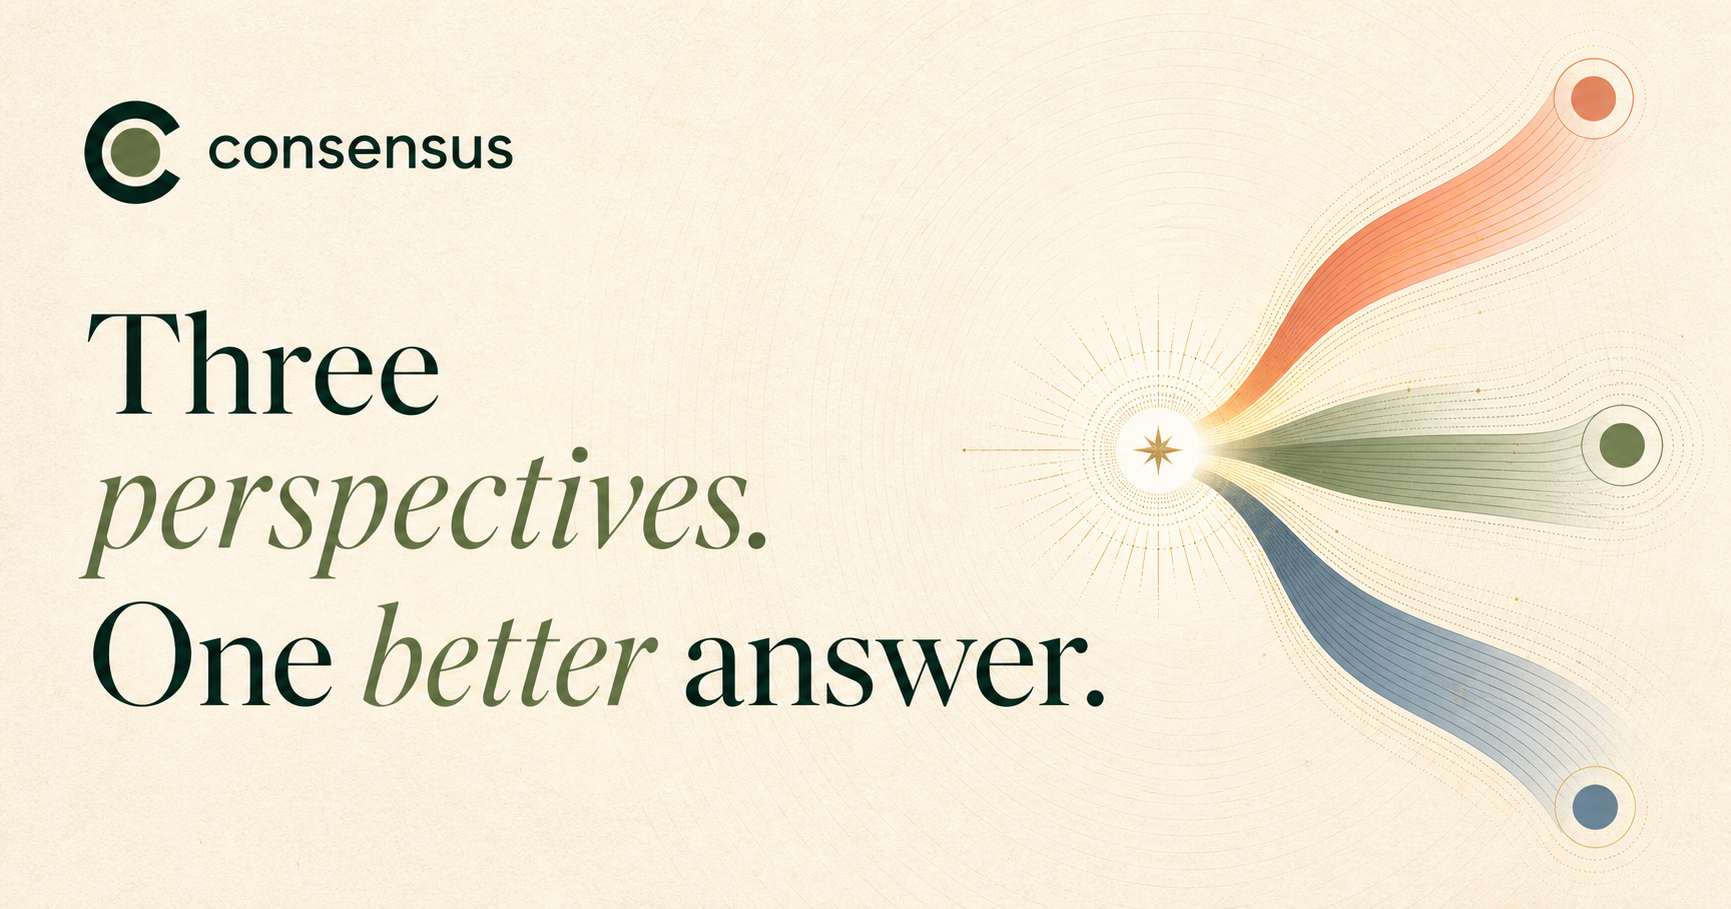
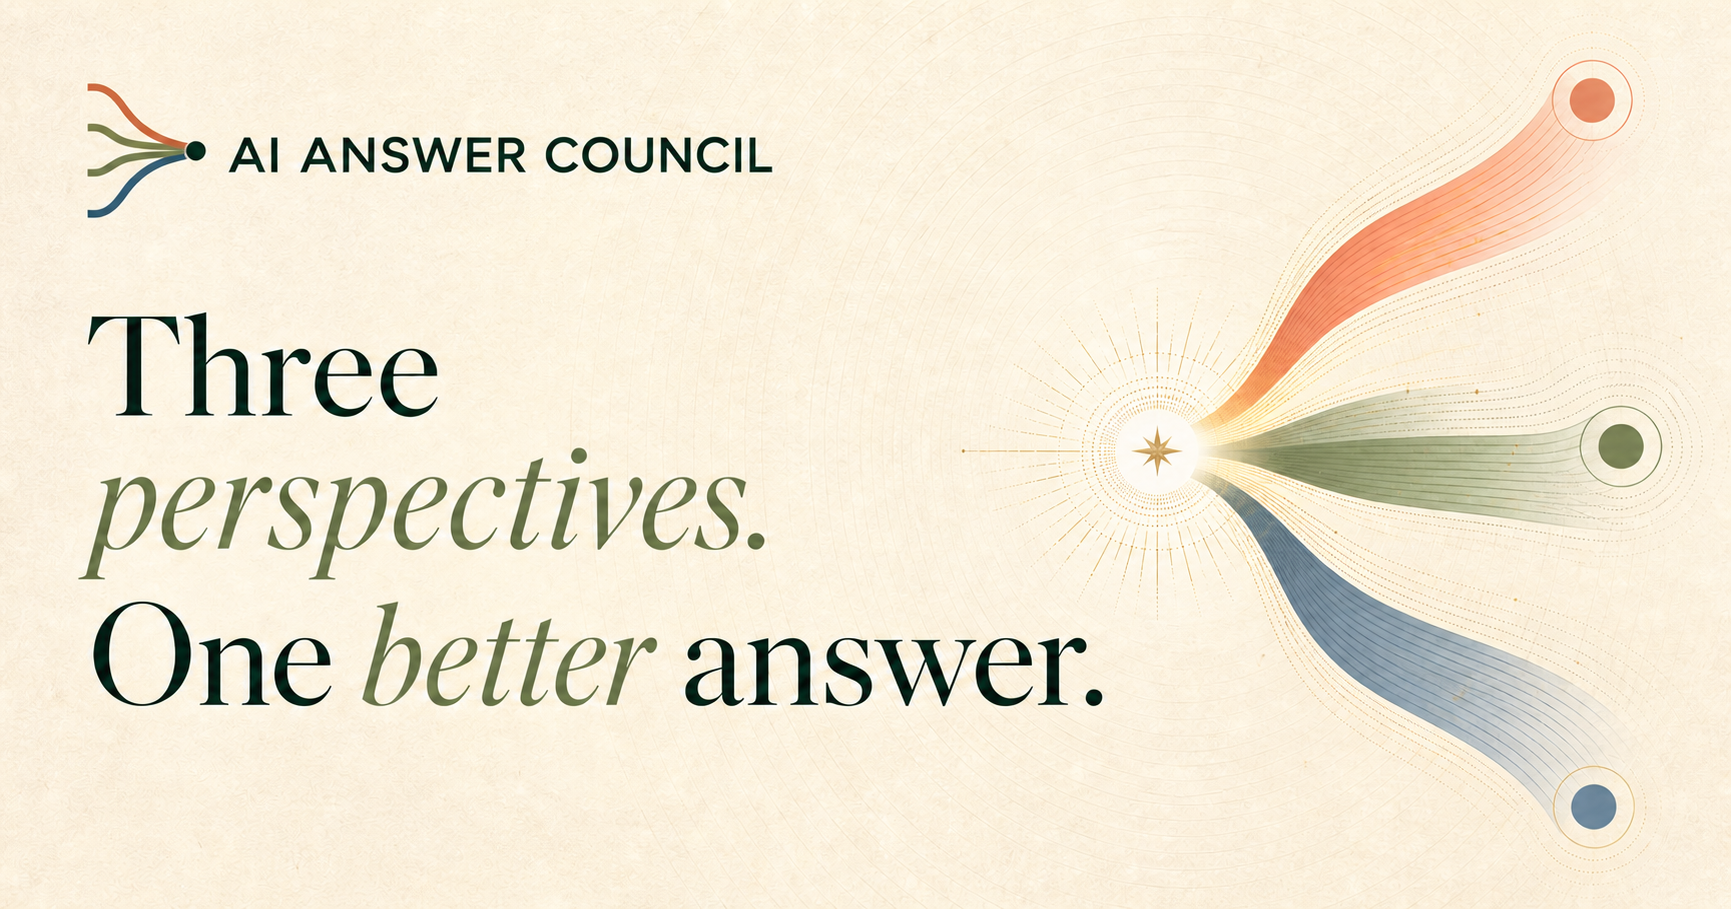
Rename product to AI Answer Council

diff --git a/app/page.tsx b/app/page.tsx
@@ -172,9 +172,9 @@ export default function Home() {
   return (
     <main>
       <header className="topbar">
-        <a className="brand" href="#top" aria-label="Consensus home">
+        <a className="brand" href="#top" aria-label="AI Answer Council home">
           <span className="brand-mark" aria-hidden="true"><i /><i /><i /></span>
-          <span>consensus</span>
+          <span>AI Answer Council</span>
         </a>
       </header>
 
@@ -182,7 +182,7 @@ export default function Home() {
         <div className="eyebrow"><span>✦</span> MULTI-MODEL INTELLIGENCE</div>
         <h1>Three perspectives.<br /><em>One better answer.</em></h1>
         <p className="hero-copy">
-          Ask once. Consensus consults leading AI models in parallel, then uses an independent evaluator to combine their strongest ideas.
+          Ask once. AI Answer Council consults leading models in parallel, then uses an independent evaluator to combine their strongest ideas.
         </p>
 
         <div className="prompt-shell">
@@ -201,7 +201,7 @@ export default function Home() {
           <div className="prompt-footer">
             <span>{prompt.length.toLocaleString()} / 3,000</span>
             <button className="run-button" onClick={runConsensus} disabled={!prompt.trim() || running}>
-              {running ? <><span className="spinner" /> Thinking together…</> : <>Get consensus <span>→</span></>}
+              {running ? <><span className="spinner" /> Council deliberating…</> : <>Ask the council <span>→</span></>}
             </button>
           </div>
         </div>
@@ -257,7 +257,7 @@ export default function Home() {
           <div className="final-head">
             <div className="final-icon">✦</div>
             <div>
-              <span>CONSENSUS ANSWER</span>
+              <span>COUNCIL ANSWER</span>
               <h2>The strongest answer, synthesized.</h2>
             </div>
             {finalStatus === "done" && <button onClick={copyAnswer}>{copied ? "Copied!" : "Copy answer"}</button>}
@@ -281,7 +281,7 @@ export default function Home() {
       </section>
 
       <footer className="site-footer">
-        <div className="footer-brand"><span className="brand-mark small"><i /><i /><i /></span> consensus</div>
+        <div className="footer-brand"><span className="brand-mark small"><i /><i /><i /></span> AI Answer Council</div>
         <p>Better answers emerge when ideas meet.</p>
         <span>Built with thoughtful AI orchestration</span>
       </footer>

diff --git a/app/layout.tsx b/app/layout.tsx
@@ -11,13 +11,13 @@ export async function generateMetadata(): Promise<Metadata> {
   const host = requestHeaders.get("x-forwarded-host") || requestHeaders.get("host") || "localhost:3000";
   const protocol = requestHeaders.get("x-forwarded-proto") || (host.startsWith("localhost") ? "http" : "https");
   const origin = `${protocol}://${host}`;
-  const title = "Consensus — Three perspectives. One better answer.";
+  const title = "AI Answer Council — Three perspectives. One better answer.";
   const description = "Compare independent answers from OpenAI, Claude, and Gemini, then synthesize their strongest ideas.";
   return {
     metadataBase: new URL(origin),
     title,
     description,
-    openGraph: { title, description, type: "website", images: [{ url: `${origin}/og.png`, width: 1731, height: 909, alt: "Three perspectives converge into one better answer" }] },
+    openGraph: { title, description, type: "website", images: [{ url: `${origin}/og.png`, width: 1731, height: 909, alt: "AI Answer Council combines three perspectives into one better answer" }] },
     twitter: { card: "summary_large_image", title, description, images: [`${origin}/og.png`] },
   };
 }

diff --git a/README.md b/README.md
@@ -1,6 +1,6 @@
-# Consensus
+# AI Answer Council
 
-Consensus is a self-consistency answer engine. It asks OpenAI, Claude, and Gemini the same question in parallel, displays each independent response, and then asks an evaluator model (Claude by default) to write a new answer from the strongest ideas.
+AI Answer Council is a self-consistency answer engine. It asks OpenAI, Claude, and Gemini the same question in parallel, displays each independent response, and then asks an evaluator model (Claude by default) to write a new answer from the strongest ideas.
 
 ## What it includes
 
